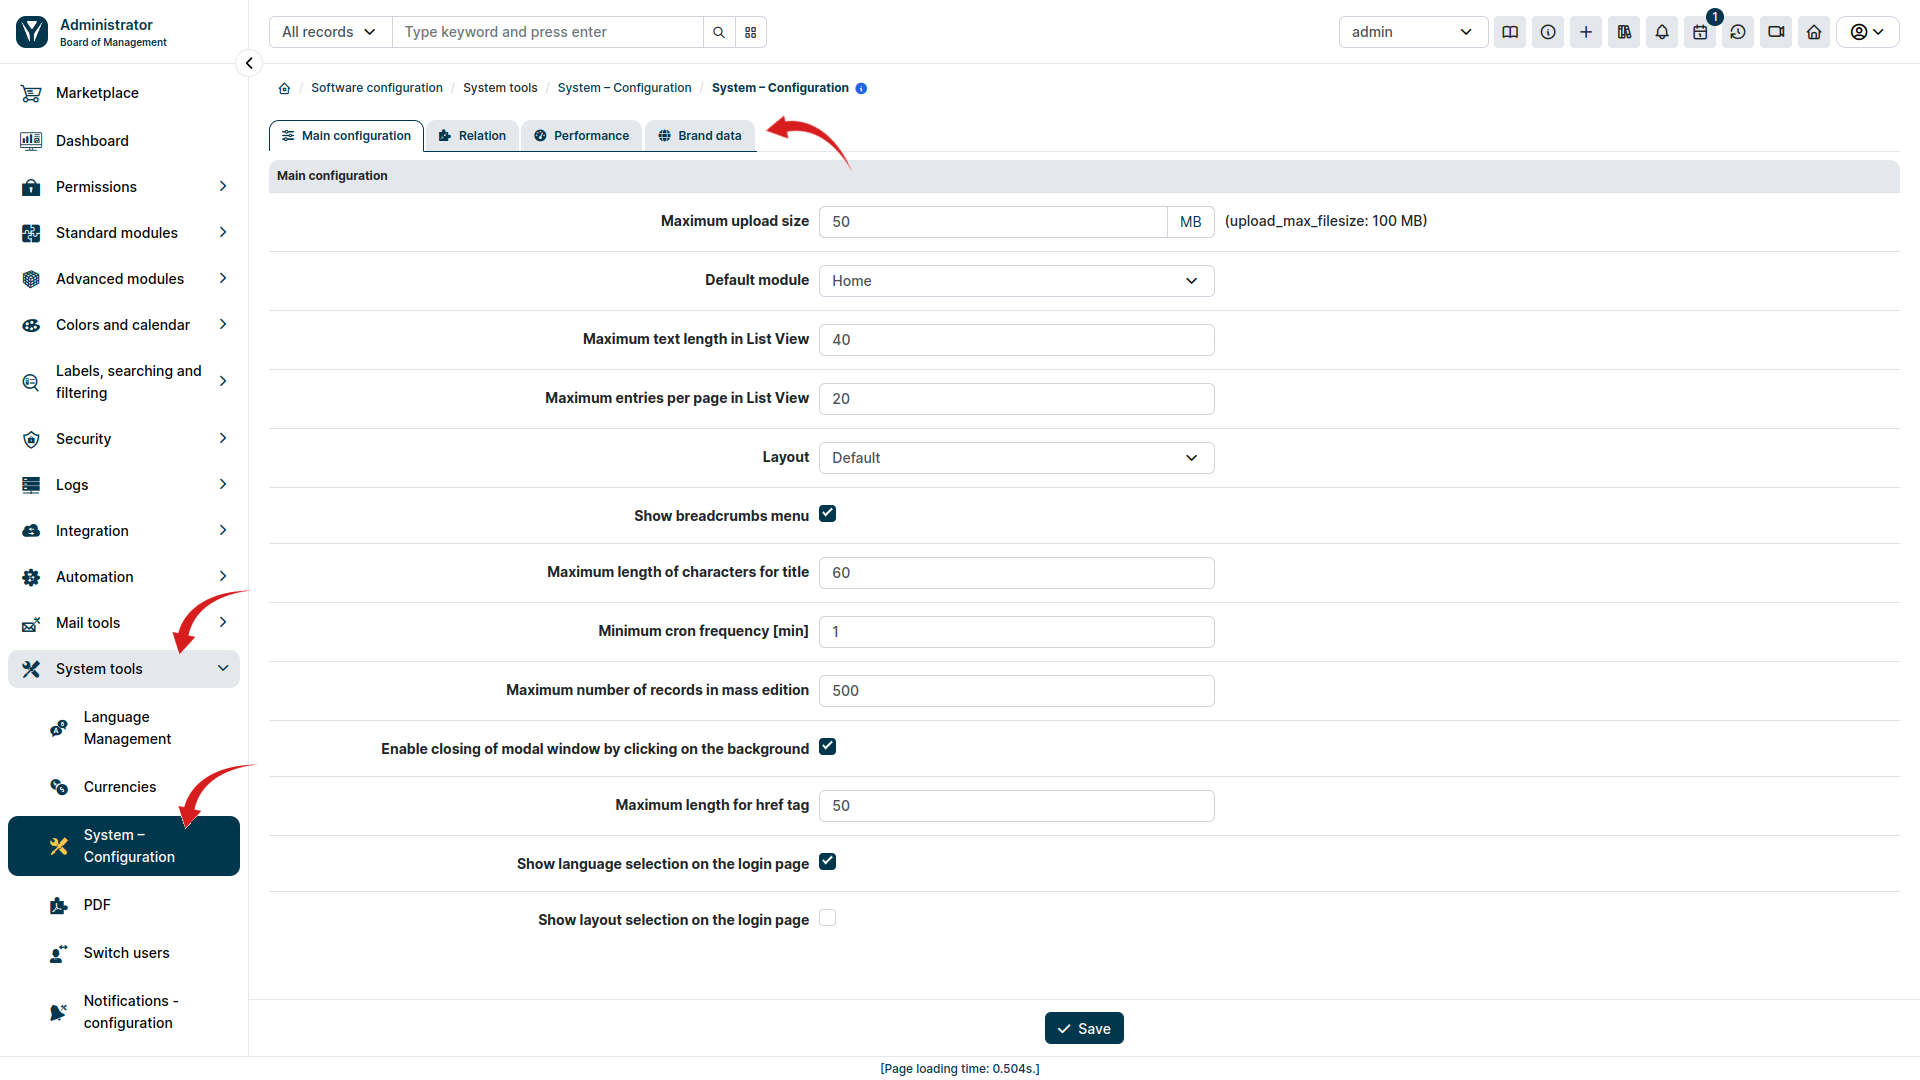
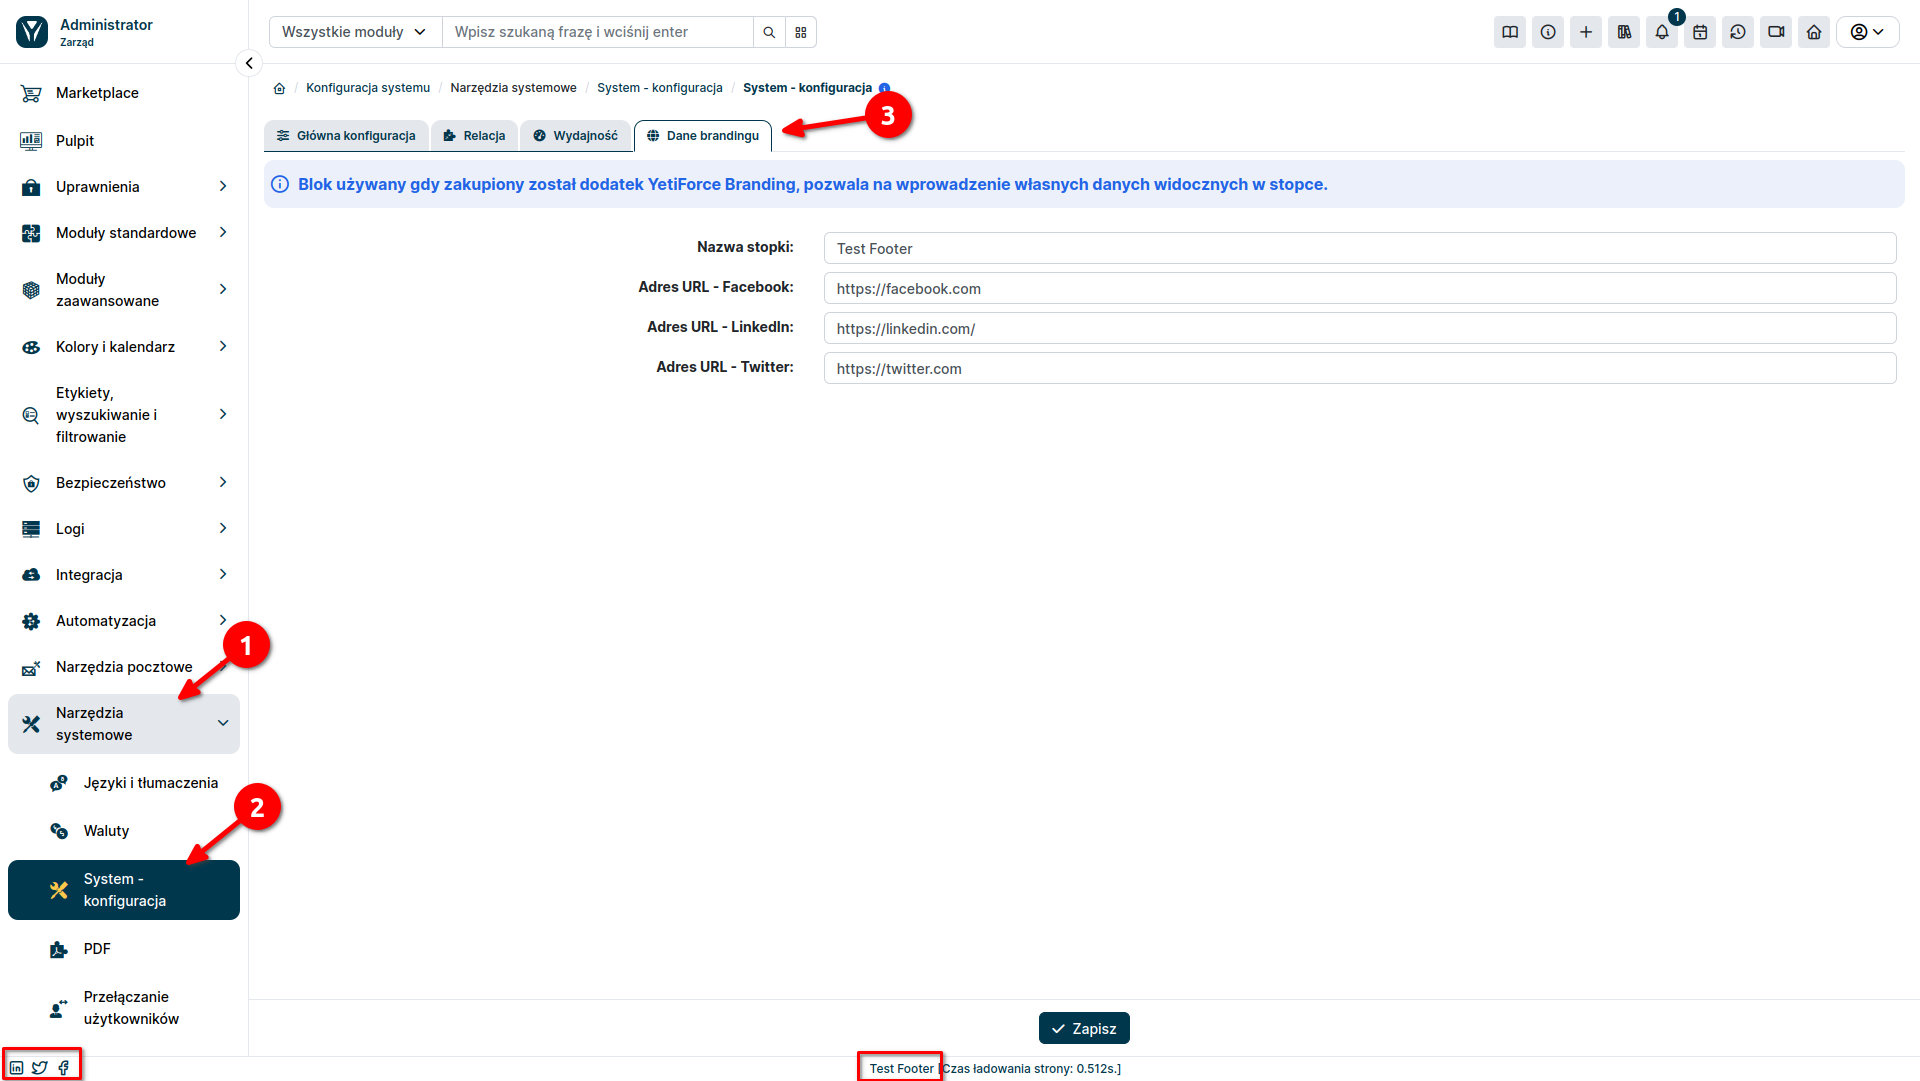
CR

diff --git a/i18n/pl/docusaurus-plugin-content-docs/current/3-administrator-guides/04-marketplace/02-addons/01-branding/README.md b/i18n/pl/docusaurus-plugin-content-docs/current/3-administrator-guides/04-marketplace/02-addons/01-branding/README.md
@@ -1,41 +1,54 @@
 ---
 title: Personalizacja Brandingu
 description: Personalizacja Brandingu
-
+keywords:
+  - Marketplace
+  - personalizacja
+  - branding
+tags:
+  - Marketplace
+  - personalizacja
+  - branding
+preview: branding-1.jpg
 ---
 
 :::warning
 
-Usługa Personalizacji Brandingu nie usuwa całkowicie systemowego brandingu YetiForce.
-Przed zakupem prosimy dokładnie zapoznać się z opisem funkcji
+Usługa Personalizacji Brandingu nie usuwa całkowicie systemowego brandingu YetiForce do własnych potrzeb. Przed zakupem prosimy dokładnie zapoznać się z opisem funkcji
 
 :::
 
-Dodatek personalizacji brandingu pozwala na jeszcze większe dostosowanie wyglądu systemu YetiForce.
-Umożliwia wstawienie danych swojej firmy do stopki lub ustawienie własnych linków do profili w mediach społecznościowych.
+Dodatek personalizacji brandingu pozwala na pełniejsze dostosowanie wyglądu systemu YetiForce. Umożliwia wstawienie danych swojej firmy do stopki oraz ustawienie własnych linków do profili w mediach społecznościowych.
 
-### Funkcje
+### Funkcje 
+
 * Dodanie do stopki odnośników z własnymi linkami do mediów społecznościowych
 * Usunięcie informacji o twórcy oprogramowania w stopce strony
 * Usunięcie stopki producenta z maili systemowych
 * Usunięcie stopki producenta z wydruków PDF
 
-Bez wykupionego dodatku **Personalizacja brandingu** w wygenerowanych dokumentach PDF oraz w wiadomościach email wysłanych z systemu YetiForce CRM zostaje dodana stopka "Powered by YetiForce".
-
-Należy pamiętać, że usługa personalizacji nie jest zamiennikiem tzw. “white labellingu” i nie usunie z systemu całkowicie wszystkich informacji o producencie systemu.
+Należy pamiętać, że usługa personalizacji nie jest zamiennikiem tzw. “white labellingu” i nie usunie z systemu całkowicie wszystkich informacji o producencie systemu. 
 
 
 ### Personalizacja informacji widocznych w stopce strony
-Dane o brandingu firmy ustawia się po przejściu w Panelu administracyjnym wybierając z lewego menu *Narzędzia systemowe → System - konfiguracja*. Następnie należy wybrać zakładkę *Dane brandingu*
-Ikony mediów społecznościowych nie pokażą się w stopce jeśli pole na link do danego profilu nie zostanie wypełnione.
+
+Dane o brandingu firmy ustawia się wybierając w sekcji administracyjnej z lewego menu *Narzędzia systemowe → System - konfiguracja*. Następnie należy wybrać zakładkę *Dane brandingu*. W tym miejscu będziemy mogli ustawić wartości jakie mają sie pojawić w stopce strony. Ikony mediów społecznościowych nie pokażą się w stopce jeśli odnośniki nie zostały uzupełnione w konfiguracji.
 
 ![branding-1](branding-1.jpg)
 
 Stopka strony bez wykupionego brandingu
+
 ![branding-2](branding-2.jpg)
 
 Stopka strony z wykupionym brandingiem
+
 ![branding-3](branding-3.jpg)
-### Czy usługa Disable Branding pozwala zmienić logo w systemie?
+
+## FAQ
+
+<details>
+<summary>Czy usługa Disable Branding pozwala zmienić logo w systemie?</summary>
 
 Zmiana logo widocznego między innymi na stronie logowania możliwa jest bez konieczności wykupienia usługi Disable Branding. Szczegółowy opis jak zmienić logo w swoim systemie dostępny jest w naszej dokumentacji: [Jak zmienić logo YetiForce na własne?](https://doc.yetiforce.com/pl/administrator-guides/faq/how-to-change-logo/)
+
+</details>

diff --git a/docs/3-administrator-guides/04-marketplace/02-addons/01-branding/README.md b/docs/3-administrator-guides/04-marketplace/02-addons/01-branding/README.md
@@ -1,44 +1,53 @@
 ---
 title: Personalizacja Brandingu
 description: Personalizacja Brandingu
-
+keywords:
+  - Marketplace
+  - personalizacja
+  - branding
+tags:
+  - Marketplace
+  - personalizacja
+  - branding
+preview: branding-1.jpg
 ---
 
 :::warning
 
-Usługa Personalizacji Brandingu nie usuwa całkowicie systemowego brandingu YetiForce.
-Przed zakupem prosimy dokładnie zapoznać się z opisem funkcji
+Usługa Personalizacji Brandingu nie usuwa całkowicie systemowego brandingu YetiForce do własnych potrzeb. Przed zakupem prosimy dokładnie zapoznać się z opisem funkcji
 
 :::
 
-Dodatek personalizacji brandingu pozwala na jeszcze większe dostosowanie wyglądu systemu YetiForce.
-Umożliwia wstawienie danych swojej firmy do stopki lub ustawienie własnych linków do profili w mediach społecznościowych.
+Dodatek personalizacji brandingu pozwala na pełniejsze dostosowanie wyglądu systemu YetiForce. Umożliwia wstawienie danych swojej firmy do stopki oraz ustawienie własnych linków do profili w mediach społecznościowych.
 
 ### Funkcje 
+
 * Dodanie do stopki odnośników z własnymi linkami do mediów społecznościowych
 * Usunięcie informacji o twórcy oprogramowania w stopce strony
 * Usunięcie stopki producenta z maili systemowych
 * Usunięcie stopki producenta z wydruków PDF
 
-Bez wykupionego dodatku **Personalizacja brandingu** w wygenerowanych dokumentach PDF oraz w wiadomościach email wysłanych z systemu YetiForce CRM zostaje dodana stopka "Powered by YetiForce".
-
 Należy pamiętać, że usługa personalizacji nie jest zamiennikiem tzw. “white labellingu” i nie usunie z systemu całkowicie wszystkich informacji o producencie systemu. 
 
-
 ### Personalizacja informacji widocznych w stopce strony
-Dane o brandingu firmy ustawia się po przejściu w Panelu administracyjnym wybierając z lewego menu *Narzędzia systemowe → System - konfiguracja*. Następnie należy wybrać zakładkę *Dane brandingu*
-Ikony mediów społecznościowych nie pokażą się w stopce jeśli pole na link do danego profilu nie zostanie wypełnione.
+
+Dane o brandingu firmy ustawia się wybierając w sekcji administracyjnej z lewego menu *Narzędzia systemowe → System - konfiguracja*. Następnie należy wybrać zakładkę *Dane brandingu*. W tym miejscu będziemy mogli ustawić wartości jakie mają sie pojawić w stopce strony. Ikony mediów społecznościowych nie pokażą się w stopce jeśli odnośniki nie zostały uzupełnione w konfiguracji.
 
 ![branding-1](branding-1.jpg)
 
 Stopka strony bez wykupionego brandingu
+
 ![branding-2](branding-2.jpg)
 
 Stopka strony z wykupionym brandingiem
+
 ![branding-3](branding-3.jpg)
 
 ## FAQ
 
-### Czy usługa Disable Branding pozwala zmienić logo w systemie?
+<details>
+<summary>Czy usługa Disable Branding pozwala zmienić logo w systemie?</summary>
 
 Zmiana logo widocznego między innymi na stronie logowania możliwa jest bez konieczności wykupienia usługi Disable Branding. Szczegółowy opis jak zmienić logo w swoim systemie dostępny jest w naszej dokumentacji: [Jak zmienić logo YetiForce na własne?](https://doc.yetiforce.com/pl/administrator-guides/faq/how-to-change-logo/)
+
+</details>
